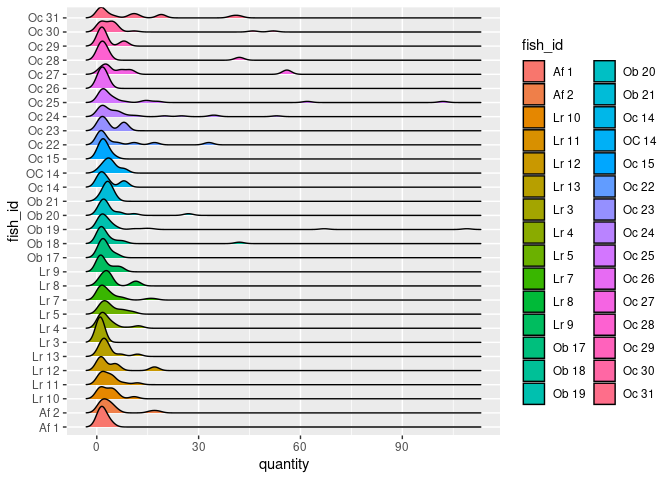
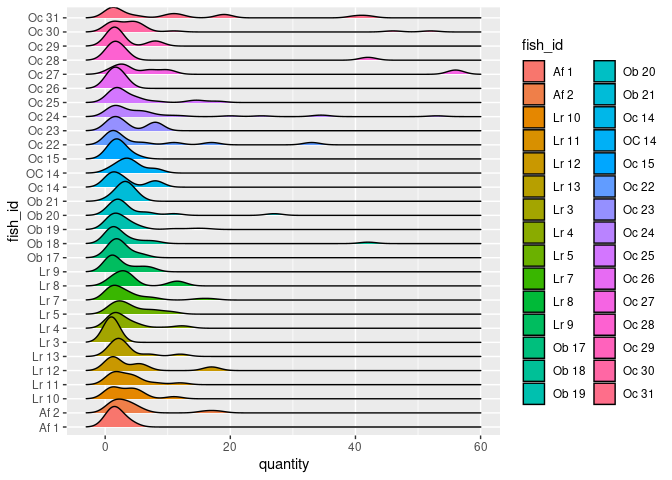
Refine preliminary plots, add particle type analysis

diff --git a/proposal/proposal.md b/proposal/proposal.md
@@ -94,12 +94,37 @@ fish_microplastics %>%
 ``` r
 fish_microplastics %>%
   group_by(fish_id) %>%
+  filter(quantity < 60) %>%
   ggplot(aes(x = quantity, y = fish_id, fill = fish_id)) +
   geom_density_ridges()
 ```
 
-    ## Picking joint bandwidth of 1.37
-
-    ## Warning: Removed 1 rows containing non-finite values (`stat_density_ridges()`).
+    ## Picking joint bandwidth of 1.34
 
 ![](proposal_files/figure-gfm/prelim-plot-quant-density-1.png)<!-- -->
+
+``` r
+fish_microplastics %>%
+  group_by(fish_id) %>%
+  drop_na(particle_type) %>%
+  summarise(particle_type, count = sum(quantity)) %>%
+  ggplot(aes(x = particle_type, y = count)) +
+  geom_col()
+```
+
+    ## Warning: Returning more (or less) than 1 row per `summarise()` group was deprecated in
+    ## dplyr 1.1.0.
+    ## ℹ Please use `reframe()` instead.
+    ## ℹ When switching from `summarise()` to `reframe()`, remember that `reframe()`
+    ##   always returns an ungrouped data frame and adjust accordingly.
+    ## Call `lifecycle::last_lifecycle_warnings()` to see where this warning was
+    ## generated.
+
+    ## `summarise()` has grouped output by 'fish_id'. You can override using the
+    ## `.groups` argument.
+
+    ## Warning: Removed 33 rows containing missing values (`position_stack()`).
+
+![](proposal_files/figure-gfm/prelim-plot-particle-type-1.png)<!-- -->
+\## Reminders: Ask Laurie about including Leaflet maps in non-HTML
+outputs Try to figure out what TWP means in this context
